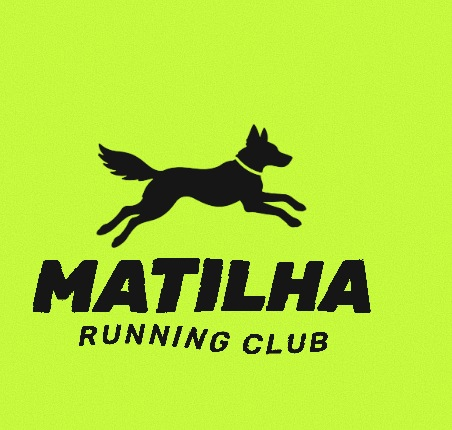
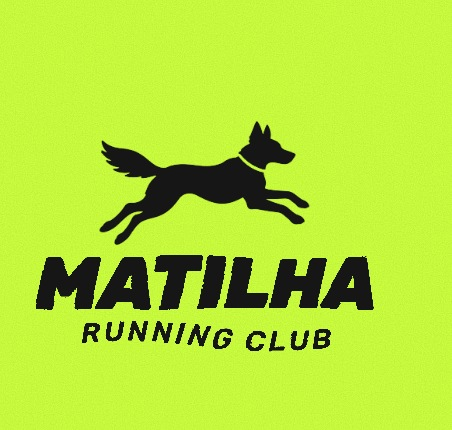
EMS: MATILHA e MIAU.LAB, 3 px de volta no quadro da marca
Claude-Session: https://claude.ai/code/session_01CmCiK9WG5RWJH1hBNUU9U9

Changed region(s): [[0.0619, 0.4535, 0.8363, 0.8465], [0.2168, 0.2721, 0.6814, 0.5442], [0.7743, 0.5744, 0.8053, 0.6047]]

diff --git a/Emi/ems-5-direcoes-pet/projeto/marcas/au/logo.html b/Emi/ems-5-direcoes-pet/projeto/marcas/au/logo.html
@@ -8,7 +8,7 @@
      A tentativa de dar pernas e tênis às letras desenhando à mão ficou feia (logo-tentativa-pernas.html): a Emi reprovou.
      A silhueta foi gerada (gpt-image no Figma) e limpa em limpa_silhueta.py.
      Uso: logo.html | ?nome=TROTE | ?fundo=#4342FF&tinta=#CCFF3E | ?bordas=0
-          quadro da lâmina: ?bordas=0&w=452&h=430&escala=.45&dx=-28&dy=17 (img/matilha-marca.jpg; centro da tinta no centro da moldura de seleção roxa: x 651-1067, y 12-406 da lâmina) -->
+          quadro da lâmina: ?bordas=0&w=452&h=430&escala=.45&dx=-25&dy=14 (img/matilha-marca.jpg; centro da moldura de seleção roxa e 3 px de volta para a direita e para cima, no olho da Emi) -->
 <html><head><meta charset="utf-8"><style>
 @font-face { font-family: RubikI; src: url(../../fonts/Rubik-italic-var-latin.woff2); font-weight: 300 900; }
 @font-face { font-family: Rubik; src: url(../../fonts/Rubik-var-latin.woff2); font-weight: 300 900; }

diff --git a/Emi/ems-5-direcoes-pet/projeto/marcas/miaulab/logo.html b/Emi/ems-5-direcoes-pet/projeto/marcas/miaulab/logo.html
@@ -1,5 +1,5 @@
 <!doctype html>
-<!-- Logo MIAU.LAB (o desenho está em logo.js). Uso: logo.html ?w=452&h=430&escala=.33&dx=-25&dy=0 (quadro da lâmina, img/miau-marca.jpg; centro da tinta no centro da moldura de seleção roxa) | | ?fundo=#FF9FD2&cor=#2F55F2 | ?fundo=#F5F7F6&cor=#141418&olho=#FF9FD2 | ?w=&h=&escala= -->
+<!-- Logo MIAU.LAB (o desenho está em logo.js). Uso: logo.html ?w=452&h=430&escala=.33&dx=-22&dy=-2 (quadro da lâmina, img/miau-marca.jpg; centro da moldura de seleção roxa e um pouquinho de volta, no olho da Emi) | | ?fundo=#FF9FD2&cor=#2F55F2 | ?fundo=#F5F7F6&cor=#141418&olho=#FF9FD2 | ?w=&h=&escala= -->
 <html><head><meta charset="utf-8"><style>
 @font-face { font-family: Archivo; src: url(../../fonts/Archivo-var-latin.woff2); font-weight: 100 900; font-stretch: 62% 125%; }
 @font-face { font-family: Mono; src: url(../../fonts/SpaceMono-normal-700.woff2); font-weight: 700; }

diff --git a/.claude/skills/artes-clientes/clientes/ems.md b/.claude/skills/artes-clientes/clientes/ems.md
@@ -144,6 +144,7 @@ Referências e o que saiu de cada uma: `Emi/ems-5-direcoes-pet/referencias/marca
   - Histórico da Emi: "não tá centralizado" (TOTÓ), "ainda tá sem equilíbrio" (MATILHA com o cachorro 17 px fora do eixo) e "claramente ainda não tá centralizado" (eu centralizava pela área verde, 9 px fora da moldura).
   - Na MIAU.LAB estava 10 px fora.
   - O dx positivo leva a tinta para a direita: para tirar folga da esquerda, dx diminui.
+  - Depois, centralizado na moldura, ela achou que "foi demais" e pediu "um pouquinho de nada de volta". Ficou 3 px para a direita e para cima. O ponto certo, para o olho dela, fica entre a moldura e a área verde, um pouco mais perto da moldura.
 - **Run club (direção 04): virou MATILHA running club.**
   - A identidade "AU" (número de peito na Graduate) foi reprovada: "feia, xoxa".
   - Pesquisa: `referencias/au-running-club/identidade`. Ela escolheu misturar 1 (RUN CLUB), 7 (TRC) e 18 (Wild Pup), lembrando que é corrida **com** cachorro.
